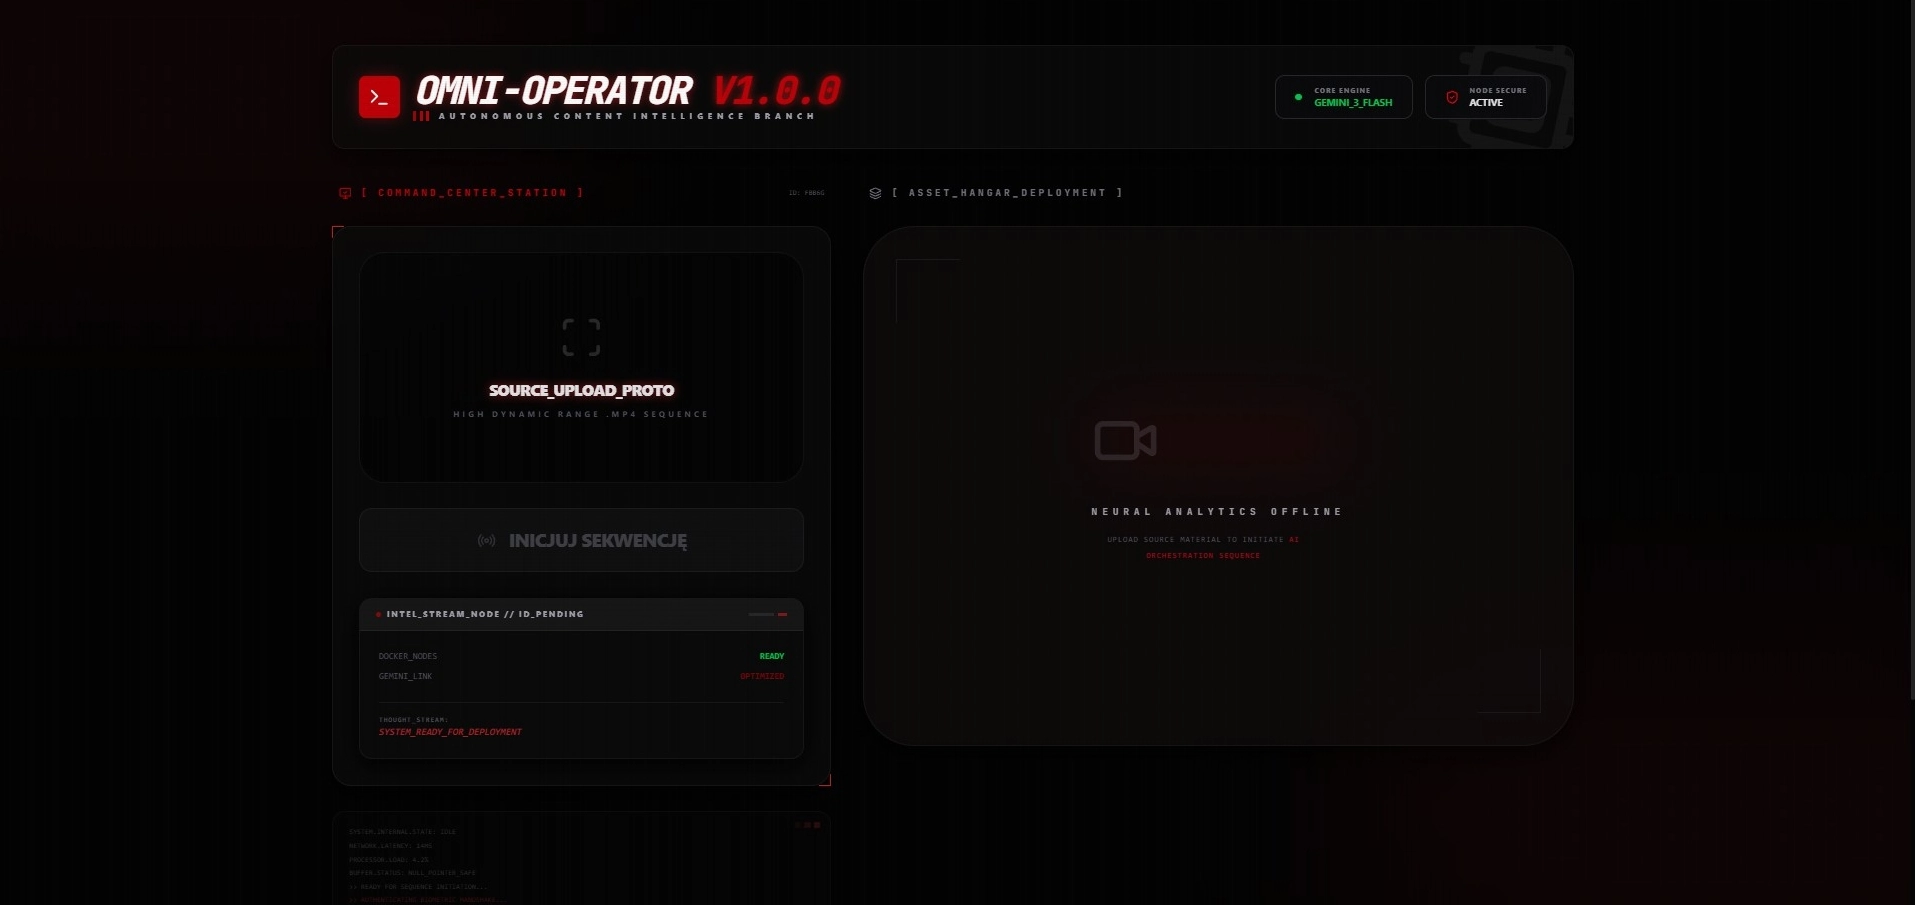
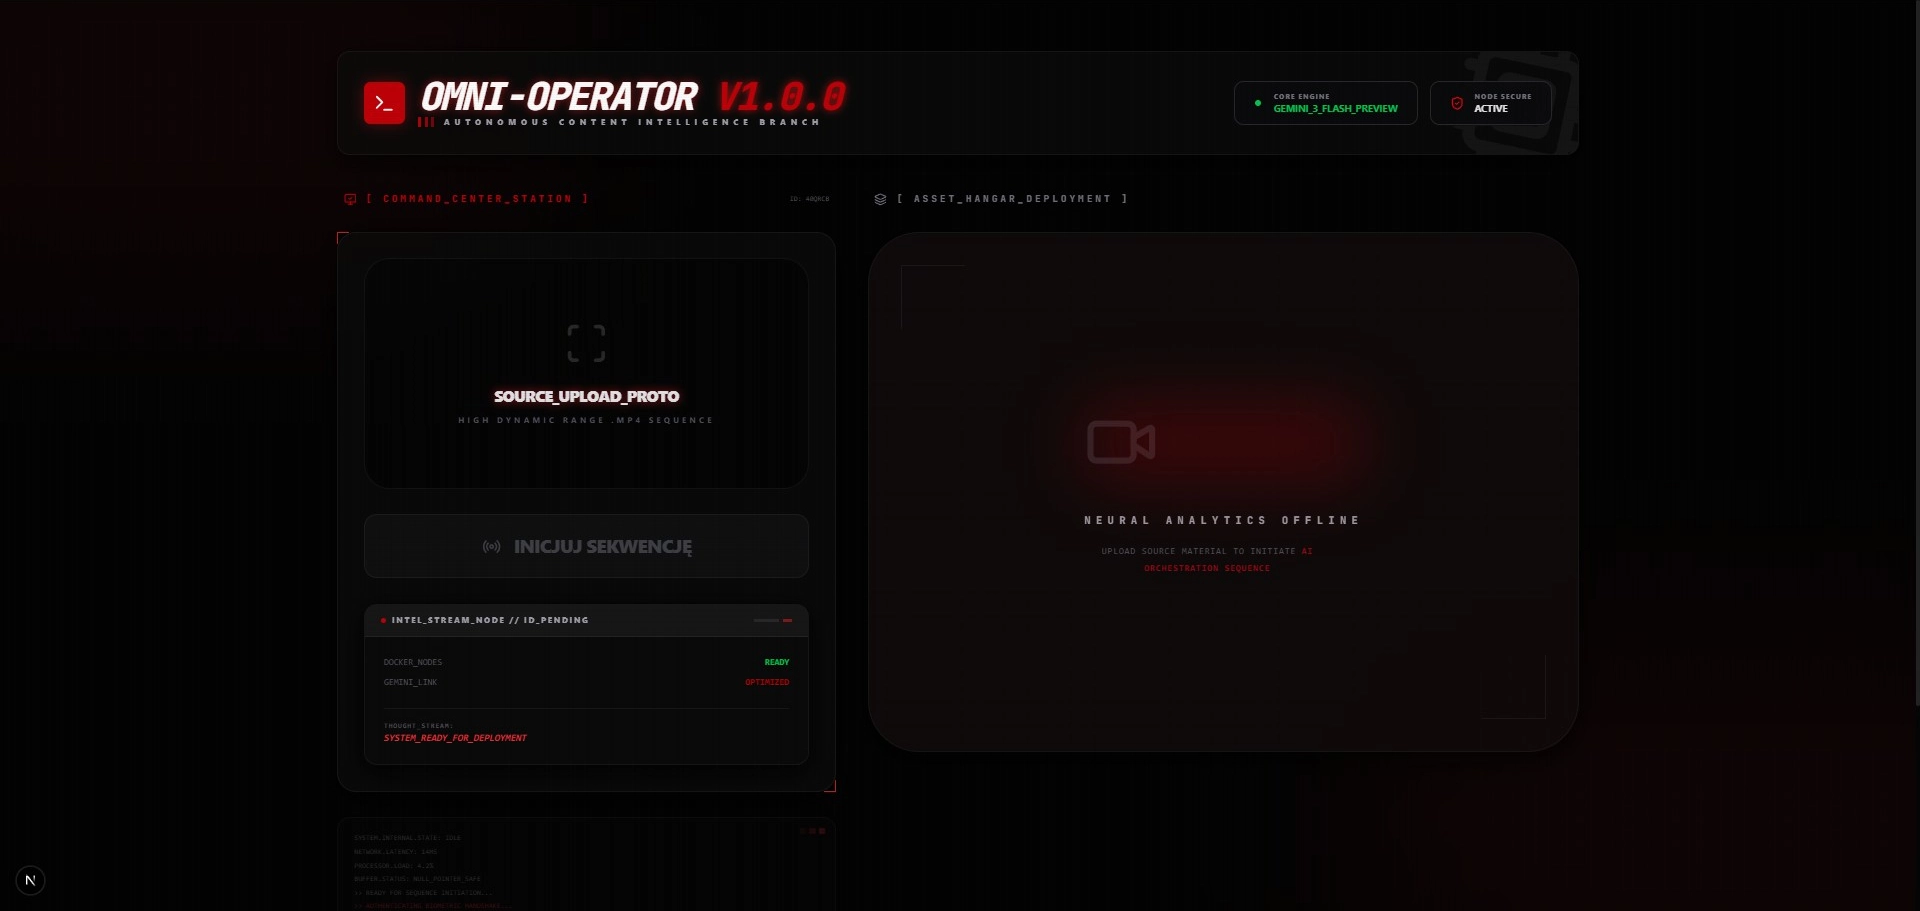
docs: Add photos for README

diff --git a/README.md b/README.md
@@ -1,4 +1,4 @@
-# 🤖 takzen/omni-operator-v1
+# 🤖 omni-operator-v1
 
 **Autonomiczna fabryka dystrybucji treści. Od surowego MP4 do dominacji w social mediach.**
 
@@ -100,13 +100,11 @@ graph TD
 
 ### FAZA 01: GOTOWOŚĆ_OPERACYJNA (MISSION_READY)
 
-> _Stan gotowości systemu przed przesłaniem materiału źródłowego._
-> ![Mission Ready](./docs/image/before.webp)
+> _Stan gotowości systemu przed przesłaniem materiału źródłowego._ > ![Mission Ready](./docs/image/before.webp)
 
 ### FAZA 02: HANGAR_ZASOBÓW (ASSET_HANGAR)
 
-> _Podgląd wygenerowanych treści, strategii social media i zmontowanych klipów._
-> ![Asset Hangar](./docs/image/before.webp)
+> _Podgląd wygenerowanych treści, strategii social media i zmontowanych klipów._ > ![Asset Hangar](./docs/image/after.webp)
 
 ---
 
